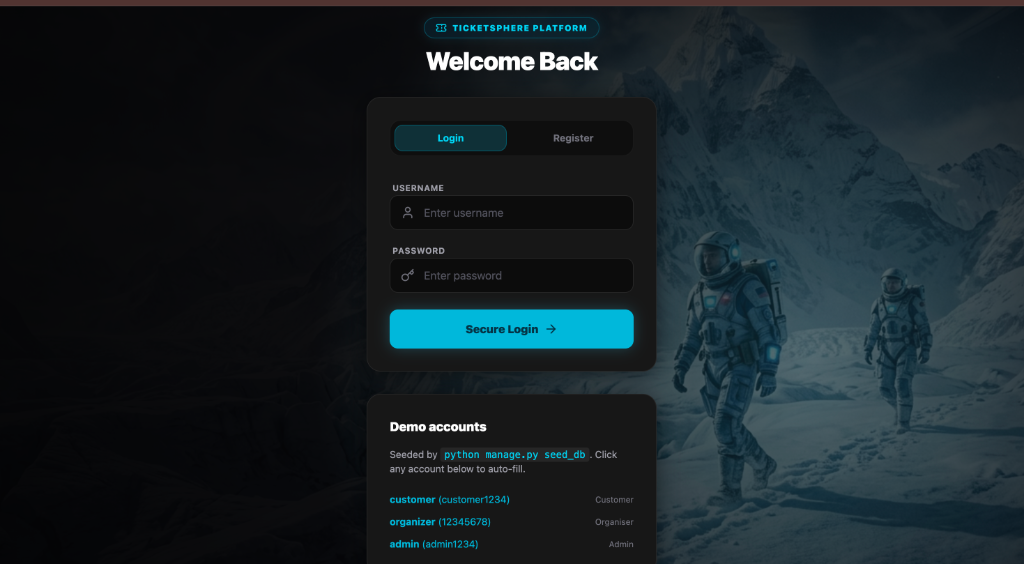
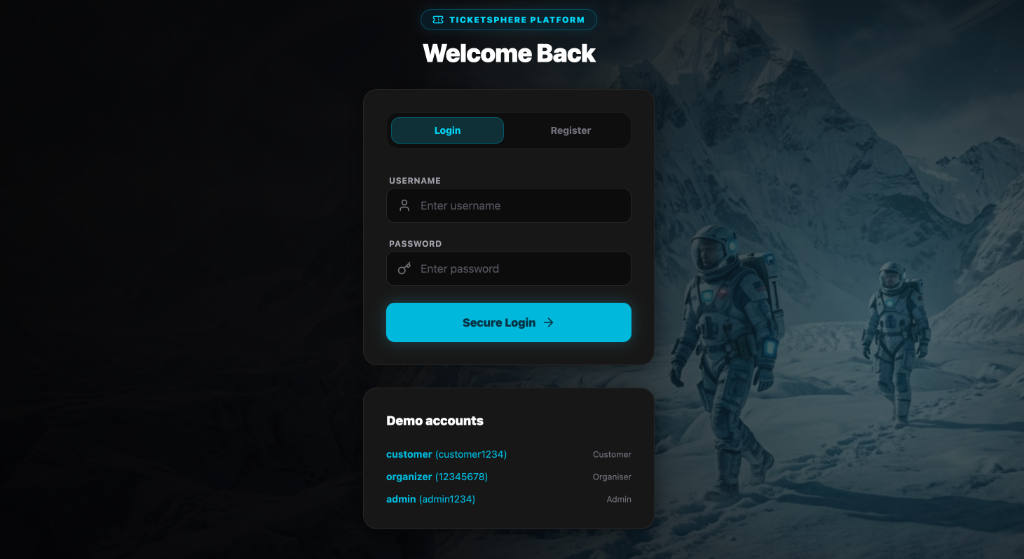
fix: change permission classes on admin venue and category views to IsAdmin and update login screenshot

diff --git a/backend/venues/views.py b/backend/venues/views.py
@@ -26,7 +26,7 @@ class VenueListView(APIView):
     Restricted to IsAdmin.
     """
 
-    permission_classes = [IsOrganiserOrAdmin]
+    permission_classes = [IsAdmin]
 
     def get(self, request):
         venues = Venue.objects.all().order_by('name')
@@ -158,7 +158,7 @@ class VenueDetailView(APIView):
     Restricted to role='admin'.
     """
 
-    permission_classes = [IsOrganiserOrAdmin]
+    permission_classes = [IsAdmin]
 
     def _get_venue(self, venue_id):
         try:
@@ -228,7 +228,7 @@ class SeatCategoryListView(APIView):
     Restricted to IsAdmin.
     """
 
-    permission_classes = [IsOrganiserOrAdmin]
+    permission_classes = [IsAdmin]
 
     def get(self, request):
         categories = SeatCategory.objects.all()
@@ -286,7 +286,7 @@ class SeatCategoryDetailView(APIView):
     Seat categories are platform-level definitions managed by admins.
     """
 
-    permission_classes = [IsOrganiserOrAdmin]
+    permission_classes = [IsAdmin]
 
     def _get_category(self, category_id):
         try:
